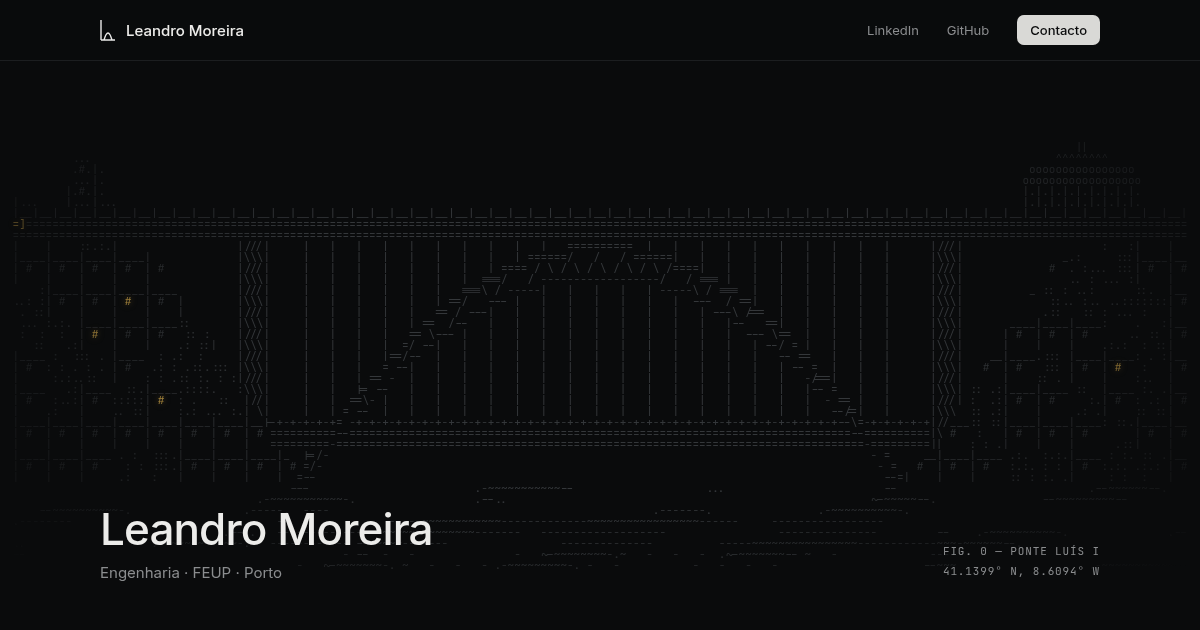
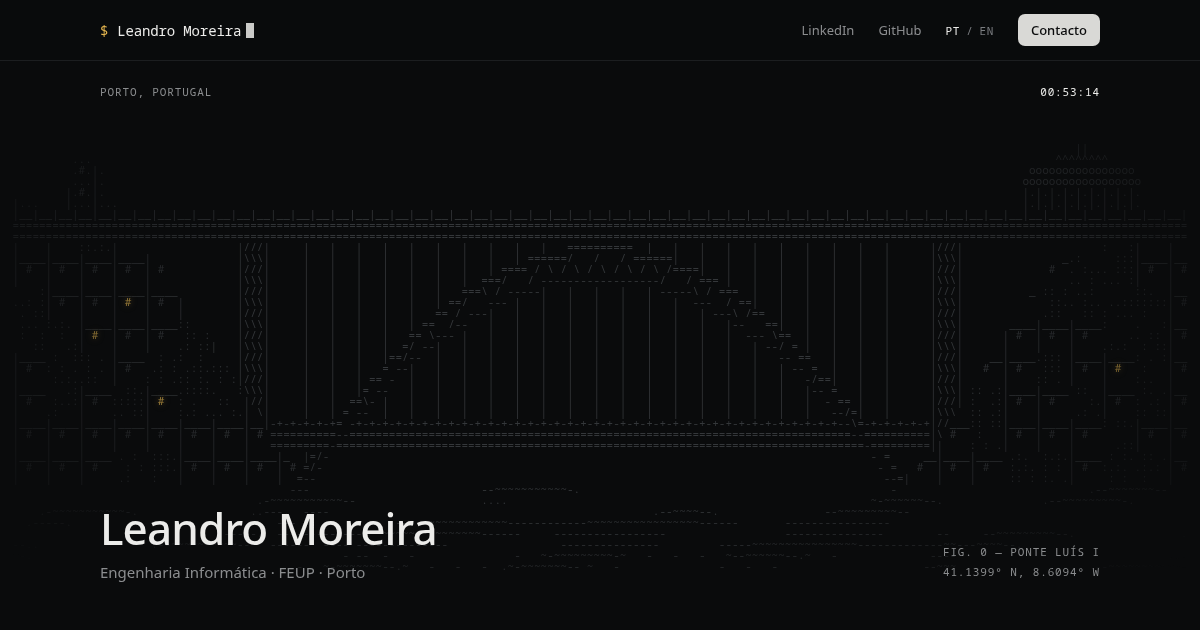
Revisão final: SEO, telemóvel (CLS 0, sem redesenhos ao fazer scroll) e GitHub Pages
- título/partilhas sincronizados, canónico e sitemap por idioma, <main>, og.png novo
- fontes sem bloquear, safe-area do iPhone, contraste do texto cinzento
- .nojekyll; removido o pedido a photo.jpg (404)

diff --git a/index.html b/index.html
@@ -2,12 +2,12 @@
 <html lang="pt-PT">
 <head>
   <meta charset="UTF-8" />
-  <meta name="viewport" content="width=device-width, initial-scale=1.0" />
-  <title>Leandro Moreira — Engenharia, FEUP, Porto</title>
+  <meta name="viewport" content="width=device-width, initial-scale=1.0, viewport-fit=cover" />
+  <title>Leandro Moreira — Engenharia Informática, FEUP, Porto</title>
   <meta name="description" content="Leandro Moreira, estudante de Engenharia Informática e Computação na FEUP — Universidade do Porto. Porto, Portugal." />
   <meta name="author" content="Leandro Moreira" />
   <meta name="robots" content="index, follow" />
-  <link rel="canonical" href="https://leandromoreira.pt/" />
+  <link rel="canonical" id="canonical" href="https://leandromoreira.pt/" />
   <link rel="alternate" hreflang="pt" href="https://leandromoreira.pt/" />
   <link rel="alternate" hreflang="en" href="https://leandromoreira.pt/?lang=en" />
   <link rel="alternate" hreflang="x-default" href="https://leandromoreira.pt/" />
@@ -21,6 +21,8 @@
       var pick = [q, saved].concat(nav).find(function (l) { return l === "pt" || l === "en"; }) || "en";
       document.documentElement.lang = pick === "pt" ? "pt-PT" : "en";
       window.__lang = pick;
+      // the english URL is its own page for search engines
+      if (q === "en") document.getElementById("canonical").href = "https://leandromoreira.pt/?lang=en";
     })();
   </script>
   <meta name="theme-color" content="#0a0b0c" />
@@ -28,16 +30,16 @@
   <meta property="og:type" content="profile" />
   <meta property="og:locale" content="pt_PT" />
   <meta property="og:site_name" content="Leandro Moreira" />
-  <meta property="og:title" content="Leandro Moreira — Engenharia, FEUP, Porto" />
-  <meta property="og:description" content="Estudante de engenharia na FEUP, Universidade do Porto." />
+  <meta property="og:title" content="Leandro Moreira — Engenharia Informática, FEUP, Porto" />
+  <meta property="og:description" content="Estudante de Engenharia Informática e Computação na FEUP, Universidade do Porto." />
   <meta property="og:url" content="https://leandromoreira.pt/" />
   <meta property="og:image" content="https://leandromoreira.pt/og.png" />
   <meta property="og:image:width" content="1200" />
   <meta property="og:image:height" content="630" />
   <meta property="og:image:alt" content="Ponte Luís I, no Porto, desenhada em ASCII" />
   <meta name="twitter:card" content="summary_large_image" />
-  <meta name="twitter:title" content="Leandro Moreira — Engenharia, FEUP, Porto" />
-  <meta name="twitter:description" content="Estudante de engenharia na FEUP, Universidade do Porto." />
+  <meta name="twitter:title" content="Leandro Moreira — Engenharia Informática, FEUP, Porto" />
+  <meta name="twitter:description" content="Estudante de Engenharia Informática e Computação na FEUP, Universidade do Porto." />
   <meta name="twitter:image" content="https://leandromoreira.pt/og.png" />
   <script type="application/ld+json">
   {
@@ -46,6 +48,9 @@
     "name": "Leandro Moreira",
     "url": "https://leandromoreira.pt/",
     "email": "mailto:leandroafonsopm@gmail.com",
+    "image": "https://leandromoreira.pt/icon-512.png",
+    "description": "Estudante de Engenharia Informática e Computação na FEUP — Universidade do Porto.",
+    "knowsLanguage": ["pt", "en"],
     "affiliation": {
       "@type": "CollegeOrUniversity",
       "name": "Faculdade de Engenharia da Universidade do Porto",
@@ -67,13 +72,15 @@
   <link rel="preconnect" href="https://api.open-meteo.com" crossorigin />
   <link rel="preconnect" href="https://fonts.googleapis.com" />
   <link rel="preconnect" href="https://fonts.gstatic.com" crossorigin />
-  <link href="https://fonts.googleapis.com/css2?family=Inter:wght@400;500&family=JetBrains+Mono:wght@400&display=swap" rel="stylesheet" />
+  <link rel="preload" as="style" href="https://fonts.googleapis.com/css2?family=Inter:wght@400;500&family=JetBrains+Mono:wght@400&display=swap" />
+  <link rel="stylesheet" href="https://fonts.googleapis.com/css2?family=Inter:wght@400;500&family=JetBrains+Mono:wght@400&display=swap" media="print" onload="this.media='all'" />
+  <noscript><link rel="stylesheet" href="https://fonts.googleapis.com/css2?family=Inter:wght@400;500&family=JetBrains+Mono:wght@400&display=swap" /></noscript>
   <style>
     :root {
       --bg: #0a0b0c;
       --fg: #ececea;
       --mid: #8b8d8f;
-      --dim: #55585b;
+      --dim: #7a7d80;
       --line: #1c1e20;
       --ascii: #34373a;
       --ascii-hi: #c9cbcc;
@@ -87,6 +94,8 @@
       color: var(--fg);
       font-family: var(--sans);
       -webkit-font-smoothing: antialiased;
+      -webkit-tap-highlight-color: transparent;
+      text-size-adjust: 100%; -webkit-text-size-adjust: 100%;
     }
     ::selection { background: var(--fg); color: var(--bg); }
     a { color: inherit; text-decoration: none; }
@@ -106,14 +115,16 @@
       position: fixed; top: 0; left: 0; right: 0; z-index: 10;
       border-bottom: 1px solid var(--line);
       background: rgba(10,11,12,.72);
-      backdrop-filter: blur(10px);
+      -webkit-backdrop-filter: blur(10px);
+              backdrop-filter: blur(10px);
+      padding: env(safe-area-inset-top) env(safe-area-inset-right) 0 env(safe-area-inset-left);
     }
+    a:focus-visible, button:focus-visible { outline: 1px solid var(--amber); outline-offset: 3px; border-radius: 4px; }
     nav .wrap {
       height: 60px;
       display: flex; align-items: center; justify-content: space-between;
     }
-    .brand { display: flex; align-items: center; gap: 10px; font-weight: 500; font-size: 15px; }
-    .brand { gap: 9px; font-family: var(--mono); font-weight: 400; font-size: 14px; letter-spacing: -.01em; }
+    .brand { display: flex; align-items: center; gap: 9px; font-family: var(--mono); font-weight: 400; font-size: 14px; letter-spacing: -.01em; }
     .brand .ps1 { font-family: var(--mono); color: var(--amber); font-weight: 400; }
     .brand .cur {
       width: 8px; height: 15px; margin-left: -4px;
@@ -154,8 +165,9 @@
               mask-image: radial-gradient(ellipse 62% 70% at 50% 46%, #000 45%, transparent 100%);
     }
     .scene .stack { position: relative; }
-    .scene pre {
-      font-family: var(--mono);
+    .scene pre, .scene .probe {
+      /* system mono: no font swap, so the bridge never jumps while loading */
+      font-family: ui-monospace, "SF Mono", Menlo, Consolas, "DejaVu Sans Mono", "Liberation Mono", monospace;
       white-space: pre;
       user-select: none;
       pointer-events: none;
@@ -164,7 +176,7 @@
     #bLight { position: absolute; inset: 0; color: var(--amber); text-shadow: 0 0 6px rgba(227,181,79,.5); }
 
     .hero-top { position: absolute; top: 84px; left: 0; right: 0; z-index: 1; }
-    .hero-top .wrap { display: flex; justify-content: space-between; gap: 16px; }
+    .hero-top .wrap { display: flex; justify-content: space-between; gap: 16px; height: 18px; line-height: 18px; overflow: hidden; }
     #clock { color: var(--fg); font-variant-numeric: tabular-nums; }
     .hero-text {
       position: absolute; left: 0; right: 0; bottom: 48px;
@@ -203,17 +215,7 @@
     .fig h3 { font-weight: 500; font-size: 17px; }
     .fig p { margin-top: 8px; font-size: 13px; line-height: 1.55; color: var(--mid); }
 
-    .portrait { display: none; }
-    .portrait.on { display: block; }
-    .portrait pre {
-      margin-top: 22px;
-      font-family: var(--mono);
-      font-size: 7px; line-height: 7px;
-      color: #8c8f91;
-      white-space: pre;
-    }
-
-    footer { border-top: 1px solid var(--line); padding: 28px 0 36px; }
+    footer { border-top: 1px solid var(--line); padding: 28px 0 calc(36px + env(safe-area-inset-bottom)); }
     footer .wrap { display: flex; justify-content: space-between; gap: 20px; flex-wrap: wrap; font-size: 13px; color: var(--mid); }
     footer .row { display: flex; gap: 24px; }
     footer a:hover { color: var(--fg); }
@@ -251,7 +253,7 @@
       <div class="links">
         <a href="https://www.linkedin.com/in/leandro-afonso-m/" target="_blank" rel="noopener">LinkedIn</a>
         <a href="https://github.com/aishend" target="_blank" rel="noopener">GitHub</a>
-        <button type="button" class="lang" id="langBtn" aria-label="Mudar idioma / Change language"><span data-lang="pt" lang="pt">PT</span><span>/</span><span data-lang="en" lang="en">EN</span></button>
+        <button type="button" class="lang" id="langBtn" title="Mudar idioma / Change language"><span data-lang="pt" lang="pt">PT</span><span>/</span><span data-lang="en" lang="en">EN</span></button>
         <a class="btn" href="mailto:leandroafonsopm@gmail.com" data-i18n="contact">Contacto</a>
       </div>
     </div>
@@ -281,6 +283,7 @@
     </div>
   </header>
 
+  <main>
   <section class="overview">
     <div class="wrap">
       <h2 class="label" data-i18n="about">Sobre</h2>
@@ -308,13 +311,7 @@
       <p data-i18n="f3p">Projetos e trabalho, em breve aqui.</p>
     </div>
   </section>
-
-  <section class="portrait" id="portrait">
-    <div class="wrap">
-      <h2 class="label" data-i18n="portrait">Fig. 4 — Retrato</h2>
-      <pre id="pAscii" aria-hidden="true"></pre>
-    </div>
-  </section>
+  </main>
 
   <footer>
     <div class="wrap">
@@ -349,7 +346,6 @@
         f2p: "A viver no Porto, Portugal.",
         f3t: "Em construção",
         f3p: "Projetos e trabalho, em breve aqui.",
-        portrait: "Fig. 4 — Retrato",
       },
       en: {
         title: "Leandro Moreira — Informatics and Computing Engineering, FEUP, Porto",
@@ -363,7 +359,6 @@
         f2p: "Based in Porto, Portugal.",
         f3t: "Under construction",
         f3p: "Projects and work, coming soon.",
-        portrait: "Fig. 4 — Portrait",
       },
     };
     let lang = window.__lang || "pt";
@@ -380,6 +375,7 @@
         const u = new URL(location.href);
         l === "pt" ? u.searchParams.delete("lang") : u.searchParams.set("lang", l);
         history.replaceState(null, "", u);
+        $("canonical").href = "https://leandromoreira.pt/" + (l === "en" ? "?lang=en" : "");
       }
       showWx();
     }
@@ -400,7 +396,7 @@
     let W = 0, H = 0, fs = 10, cw = 6, lh = 10;
     let grid = [], kind = [], win = [];    // static scene
     let order = [];                       // reveal delay per cell
-    let t0 = performance.now();
+    let t0 = performance.now(), built = false;
 
     const WATER = 0.80, DECK = 0.25, LOW = 0.70;
     const XL = 0.24, XR = 0.76;
@@ -416,11 +412,14 @@
       const targetCols = innerWidth < 760 ? 84 : 170;
       fs = Math.max(5, Math.min(11, (box.width * 0.98) / (targetCols * 0.6)));
       [bBase, bLight].forEach(p => { p.style.fontSize = fs + "px"; p.style.lineHeight = fs + "px"; });
-      const probe = document.createElement("span");
+      // measure the character width off-screen, without clearing the drawing
+      const probe = document.createElement("pre");
+      probe.className = "probe";
+      probe.style.cssText = `position:absolute;visibility:hidden;left:-9999px;top:0;font-size:${fs}px`;
       probe.textContent = "M".repeat(50);
-      bBase.textContent = ""; bBase.appendChild(probe);
+      sceneEl.appendChild(probe);
       cw = probe.getBoundingClientRect().width / 50; lh = fs;
-      bBase.textContent = "";
+      probe.remove();
       W = Math.floor((box.width * 0.98) / cw);
       // keep the bridge's proportions on any screen
       H = Math.floor(Math.min(box.height * 0.92, W * cw * 0.56) / lh);
@@ -501,7 +500,8 @@
         const d = Math.hypot((x - W / 2) / W, (y - H * 0.5) / H * 0.6);
         order[i] = d * 2600 + hash(x, y + 1) * 500;
       }
-      t0 = performance.now();
+      if (!built) { t0 = performance.now(); built = true; }   // intro animation only once
+      frame(performance.now());                                  // redraw right away, no empty frame
     }
 
     const glyphs = "/\\|=-+_:.#";
@@ -685,42 +685,19 @@
     }
 
     /* =====================================================
-       Optional portrait: shown only if photo.jpg exists
-       ===================================================== */
-    const img = new Image();
-    img.onload = () => {
-      try {
-        const PW = Math.min(110, Math.floor(($("portrait").clientWidth || 900) / 4.3));
-        const PH = Math.round(PW * (img.height / img.width) * 0.5);
-        const c = document.createElement("canvas"); c.width = PW; c.height = PH;
-        const g = c.getContext("2d"); g.drawImage(img, 0, 0, PW, PH);
-        const d = g.getImageData(0, 0, PW, PH).data;
-        const L = new Float32Array(PW * PH);
-        for (let i = 0; i < L.length; i++) L[i] = (0.299 * d[i * 4] + 0.587 * d[i * 4 + 1] + 0.114 * d[i * 4 + 2]) / 255;
-        const sorted = Float32Array.from(L).sort();
-        const ramp = " .:-=+*#%@";
-        let s = "";
-        for (let y = 0; y < PH; y++) {
-          for (let x = 0; x < PW; x++) {
-            const v = L[y * PW + x];
-            let lo = 0, hi = sorted.length;
-            while (lo < hi) { const m = (lo + hi) >> 1; sorted[m] < v ? lo = m + 1 : hi = m; }
-            s += ramp[Math.min(ramp.length - 1, ((lo / sorted.length) * ramp.length) | 0)];
-          }
-          s += "\n";
-        }
-        $("pAscii").textContent = s;
-        $("portrait").classList.add("on");
-      } catch (e) { /* file:// — ignore */ }
-    };
-    img.src = "photo.jpg";
-
-    /* =====================================================
        Loop
        ===================================================== */
     build();
     let rt;
-    addEventListener("resize", () => { clearTimeout(rt); rt = setTimeout(build, 150); });
+    // phones fire "resize" when the address bar shows/hides: only redraw when the width changes
+    // (or, on desktop, when the height changes a lot)
+    let lastW = innerWidth, lastH = innerHeight;
+    addEventListener("resize", () => {
+      const wide = innerWidth >= 760;
+      if (innerWidth === lastW && !(wide && Math.abs(innerHeight - lastH) > 80)) return;
+      lastW = innerWidth; lastH = innerHeight;
+      clearTimeout(rt); rt = setTimeout(build, 150);
+    });
 
     let last = 0, heroOn = true, figsOn = false;
     new IntersectionObserver(([e]) => heroOn = e.isIntersecting).observe($("scene"));
